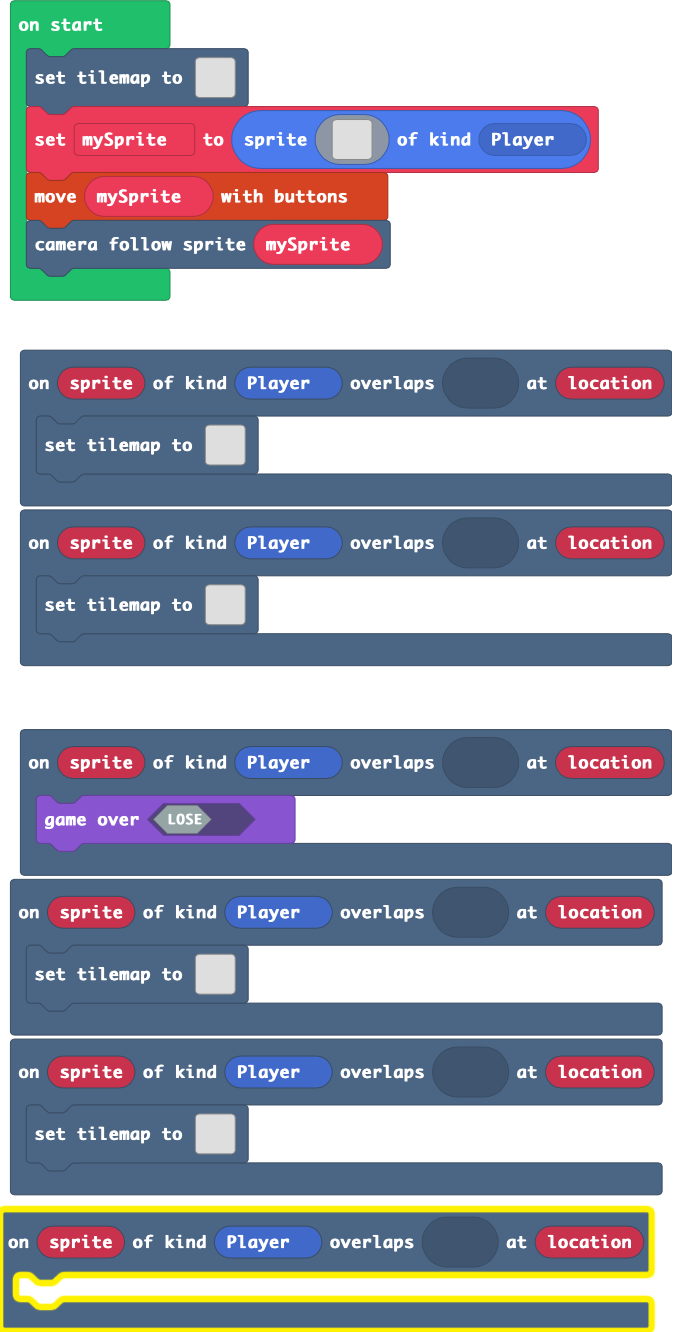
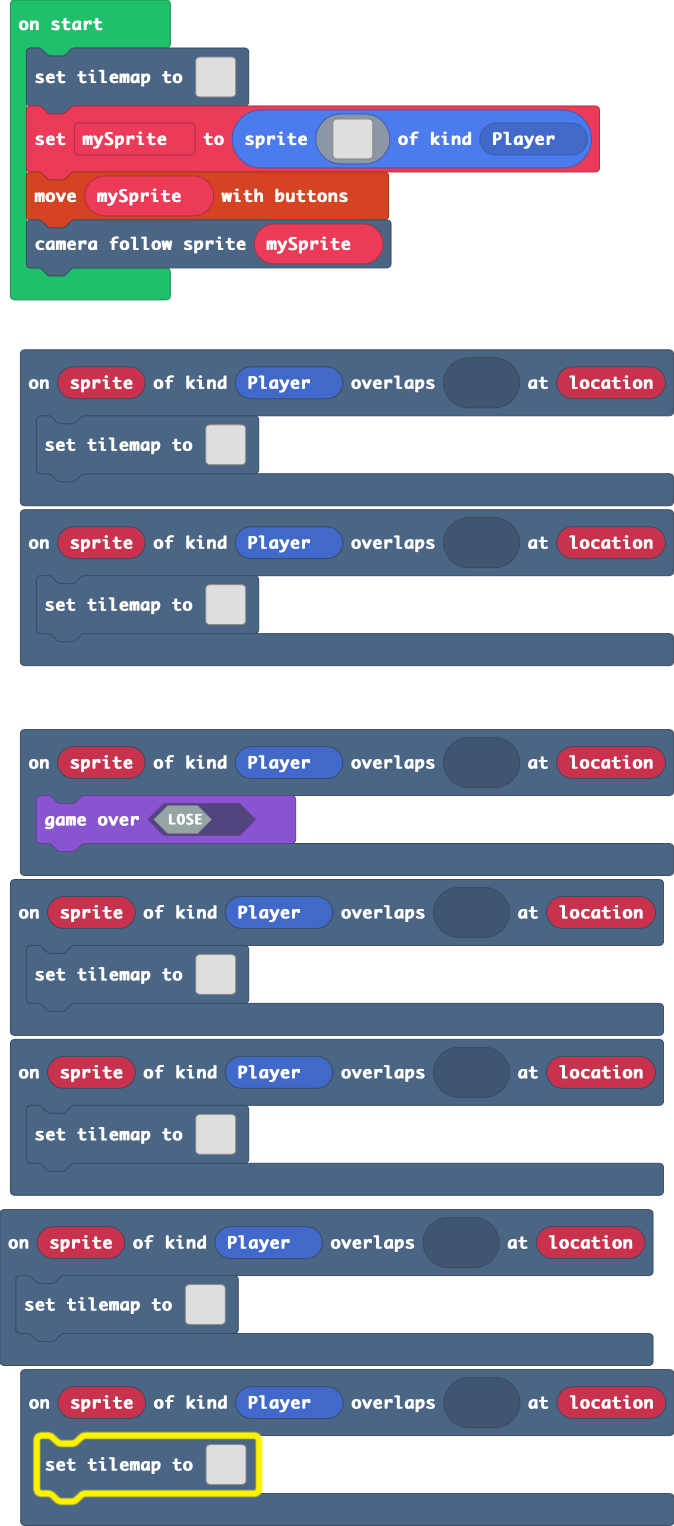
Update main.blocks, main.ts, tilemap.g.jres, tilemap.g.ts

diff --git a/tilemap.g.ts b/tilemap.g.ts
@@ -149,6 +149,78 @@ namespace myTiles {
 ..................................................
 ..................................................
 `, [myTiles.transparency16,sprites.dungeon.darkGroundCenter,sprites.dungeon.collectibleInsignia,sprites.dungeon.collectibleRedCrystal,sprites.castle.saplingPine], TileScale.Sixteen);
+            case "level7":
+            case "level7":return tiles.createTilemap(hex`3200320001010101010101010101010101010101010101010101010101010101010101010101010101010101010101010101010101010101010101020202020202020202010101010101020202020202020202020201010101010101010101010102020202020101010102020201010101010101010102020202020201010101010101010101020202020202020202010101020201010102010101010201010101010101010101010101010101010101010101010101010101010101010101010201010202010101010201010101020101010101010101010101010101010101010101010101010101010101010101010101020102020101010102020101010102010101010101010101010101010101010101010101010101010101010101010101010102020201010101010201010101010201010101010101010101010101010101010101010101010101010101010101010101010202010101010101020101010101020101010101010202020202010101010101010201010101010101010101010101010101010101010101010102010101010102010101020202010101020201010101010202020201010101010101010101010101010101010101010202020201010101010201010102010101010102010101010101020101020101010202020202010101010101010101010101020101010101010101020101010102010101010201010101010102010102010102020101010201010101010101010101010102010101010101010102010101010201010101020101010101010201010201010201010101020101010101010101010101020101010101010101010201010101020101010102010101010102020101020102020101010102010101010101010101010102010101010101010101020101010202010101010202020102020201010102020201010101020201010101010101010101010202010101010101010102020202010101010101010102020201010101010101010101010102010101010101010101010101010202020202010101010101010101010101010101010101010101010101010101010101020201010101010101010101010101010101010201010101010101010101010101010101010101010101010202020202020202010101010101010101010101010101010101020101010101020202020202020202010101010101020202010101010101010101010101010101010101010101010101010102010101010102010101010101010202020201020202010101010101010101010101010101010101010101010101010101010201010101010201010101010101010101010202010101010101010101010101010101010102020201010101010101010101020101010101020101010101010101010101010101010101010101010101010101010101010201020201010101010101010102010101010102020202020202020202020202010101010101010101010101010101010101020101020201010101010101010202010101010101010101010101010101010102020202020202020202010202010101010102010101020101010101010101030201010101010101010101010101010101010101010101010101020202020201010101010201010101020201010101010102020101010101010101010101010101010101010101010101010101010101020101010101020101010101020201010101010201010101010101010202020202020202020202020202020202020202020202010101010102010101010101020201010101020101010101020202020101010101010101010101010101010101010101020101010101010201010101010101020202020202010101020202010101010101010101010101010101010101010101010101010101010101020202010101010101010101010101010102010101010101010102020202020202020202020101010101010101010101010101010201010101010101010101010101010202010102020202020201010101010101010102020101010101010101010101010101020101010101010101010101010101010202020201010101010101010101010101010202010101010101010101010101010102010101010101010101010101010101010101010101010101010101010101010102020101010101010101010101010101010201010101010101010101010101010101010101010101010101020202020202020201010101010101010101010101010101020101010101010101010101010101020202020202020202020201010101020201010101010101010101010101010202020202010101010101010101010101010102010101010101010101010101010101010101010101010101010101010101020101010101010101010101010101010101010201010101010101010101010101010101010101010101010101010101010102010101010101010101010101010101010101020202020202020101010101020202020202010101010101010101010101010201010102020202020202020202020202020101010101010102020202020202010101010202020101010101010101010101020101010201010101010101010101010101010101010101010101010101020202020202020202010101010101010101010102010101020101010101010101010101010101010101010101010101010202010101010101010101010102020202010101010201010102010101010101010101010101010101010101010101010102020101010101010101010101010201010201010101020202020201010101010101010101010101010101010101010101010201010101010101010101010101020101020101010101010101010101010101010101010101010101010101010101010101020101010101010101010101010102010102010101010101010101010101010101010101010101010101010101010101010102010101010101010101010101010201010201010101010101010101010202020202020202020202010101010101010101010202020202020101010102020201020101020101010101010101010101020101010101010101010101010101010101010101010101020202010101020201020202010102010101010101010101010202010101010101010101010101010101010101010101010101010201010102010101010101010202020202020202020202020101010101010101010101010101010101010101010101010101020101010201010101010101010101010101010101010101010101010101010101010101010101010101010101010101010102020202020101010101010101010101010101010101010101010101010101010101010101010101010101010101010101010101010101010101010101010101010101010101010101010101010101010101010101`, img`
+..................................................
+.....222222222......22222222222............22222..
+..222.........222222..........222222222...22...2..
+..2...................................2..22....2..
+..2...................................2.22....22..
+..2...................................222.....2...
+..2...................................22......2...
+..2......22222.......2........................2...
+..2...222...22.....2222....................2222...
+..2...2.....2......2..2...22222............2......
+..2....2....2......2..2..22...2............2......
+..2....2....2......2..2..2....2...........2.......
+..2....2....2.....22..2.22....2...........2.......
+..2...22....222.222...222....22...........22......
+..2222........222............2.............22222..
+............................22.................2..
+.....................22222222..................2..
+...222222222......222..........................2..
+...2.......2222.222............................2..
+...2...........22.................222..........2..
+...2..............................2.22.........2..
+...2222222222222..................2..22........22.
+................2222222222.22.....2...2.........2.
+........................22222.....2....22......22.
+............................2.....2.....22.....2..
+......22222222222222222222222.....2......22....2..
+...2222....................2......2.......222222..
+.222..............................222.............
+.2........22222222222...............2.............
+.22..222222.........22..............2.............
+..2222..............22..............2.............
+...................22...............2.............
+............22222222................2.............
+.22222222222....22..............22222.............
+.2..............................2.................
+.2..............................2.................
+.2222222.....222222.............2...22222222222222
+.......2222222....222...........2...2.............
+............222222222...........2...2.............
+...........22...........2222....2...2.............
+..........22............2..2....22222.............
+..........2.............2..2......................
+..........2.............2..2......................
+..........2.............2..2...........22222222222
+..........222222....222.2..2...........2..........
+.............222...22.222..2..........22..........
+...............2...2.......222222222222...........
+...............2...2..............................
+...............22222..............................
+..................................................
+`, [myTiles.transparency16,sprites.dungeon.floorDarkDiamond,sprites.dungeon.floorLight2,sprites.dungeon.buttonOrangeDepressed], TileScale.Sixteen);
+            case "level8":
+            case "level8":return tiles.createTilemap(hex`1000100000000000000000000000000000000000000000000000000000000000000000000000000000000000000000000000000000000000000000000000000000000000000000000000000000000000000000000000000000000000000000000000000000000000000000000000000000000000000000000000000000000000000000000000000000000000000000000000000000000000000000000000000000000000000000000000000000000000000000000000000000000000000000000000000000000000000000000000000000000000000000000000000000000000000000000000000000000000000000000000000000000000000000000000000000000000`, img`
+. . . . . . . . . . . . . . . . 
+. . . . . . . . . . . . . . . . 
+. . . . . . . . . . . . . . . . 
+. . . . . . . . . . . . . . . . 
+. . . . . . . . . . . . . . . . 
+. . . . . . . . . . . . . . . . 
+. . . . . . . . . . . . . . . . 
+. . . . . . . . . . . . . . . . 
+. . . . . . . . . . . . . . . . 
+. . . . . . . . . . . . . . . . 
+. . . . . . . . . . . . . . . . 
+. . . . . . . . . . . . . . . . 
+. . . . . . . . . . . . . . . . 
+. . . . . . . . . . . . . . . . 
+. . . . . . . . . . . . . . . . 
+. . . . . . . . . . . . . . . . 
+`, [myTiles.transparency16], TileScale.Sixteen);
         }
         return null;
     })

diff --git a/main.ts b/main.ts
@@ -1,11 +1,14 @@
-scene.onOverlapTile(SpriteKind.Player, sprites.builtin.forestTiles0, function (sprite, location) {
+scene.onOverlapTile(SpriteKind.Player, sprites.castle.saplingPine, function (sprite, location) {
     game.over(false)
+})
+scene.onOverlapTile(SpriteKind.Player, sprites.dungeon.buttonOrangeDepressed, function (sprite, location) {
+    tiles.setTilemap(tilemap`level8`)
 })
 scene.onOverlapTile(SpriteKind.Player, sprites.dungeon.stairEast, function (sprite, location) {
     tiles.setTilemap(tilemap`level5`)
 })
 scene.onOverlapTile(SpriteKind.Player, sprites.dungeon.collectibleRedCrystal, function (sprite, location) {
-	
+    tiles.setTilemap(tilemap`level7`)
 })
 scene.onOverlapTile(SpriteKind.Player, sprites.dungeon.stairLarge, function (sprite, location) {
     tiles.setTilemap(tilemap`level2`)
